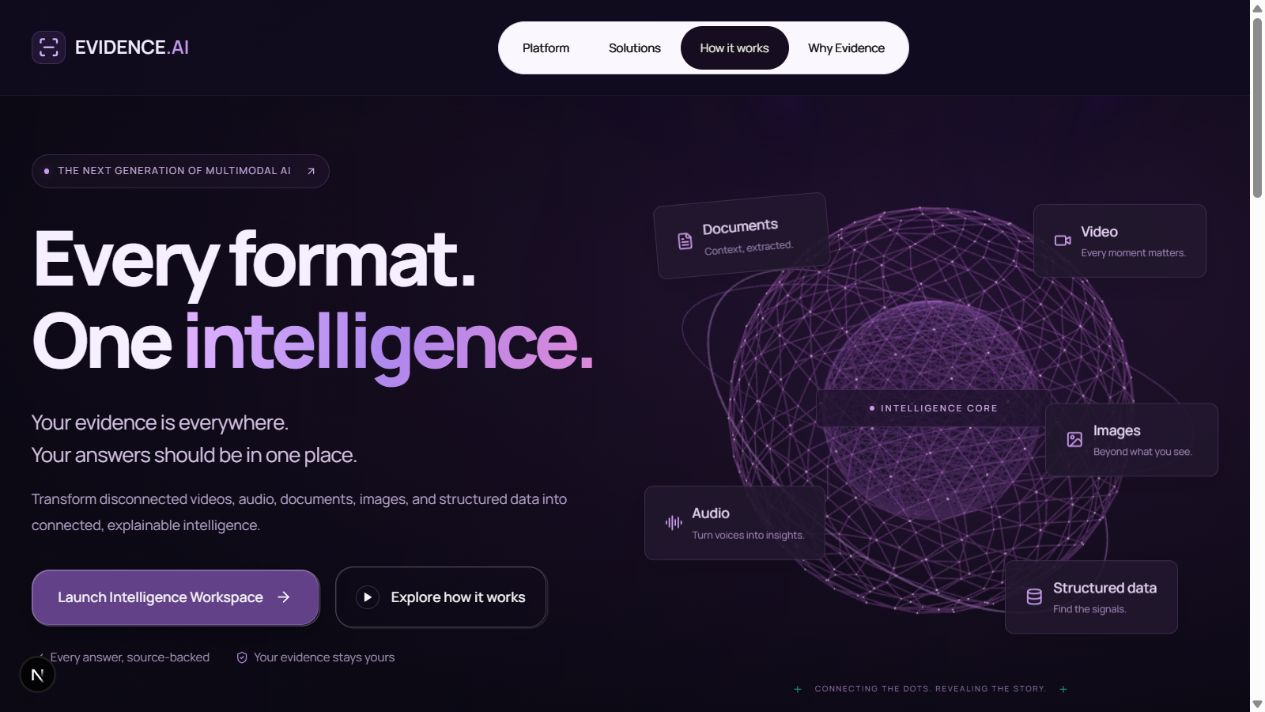
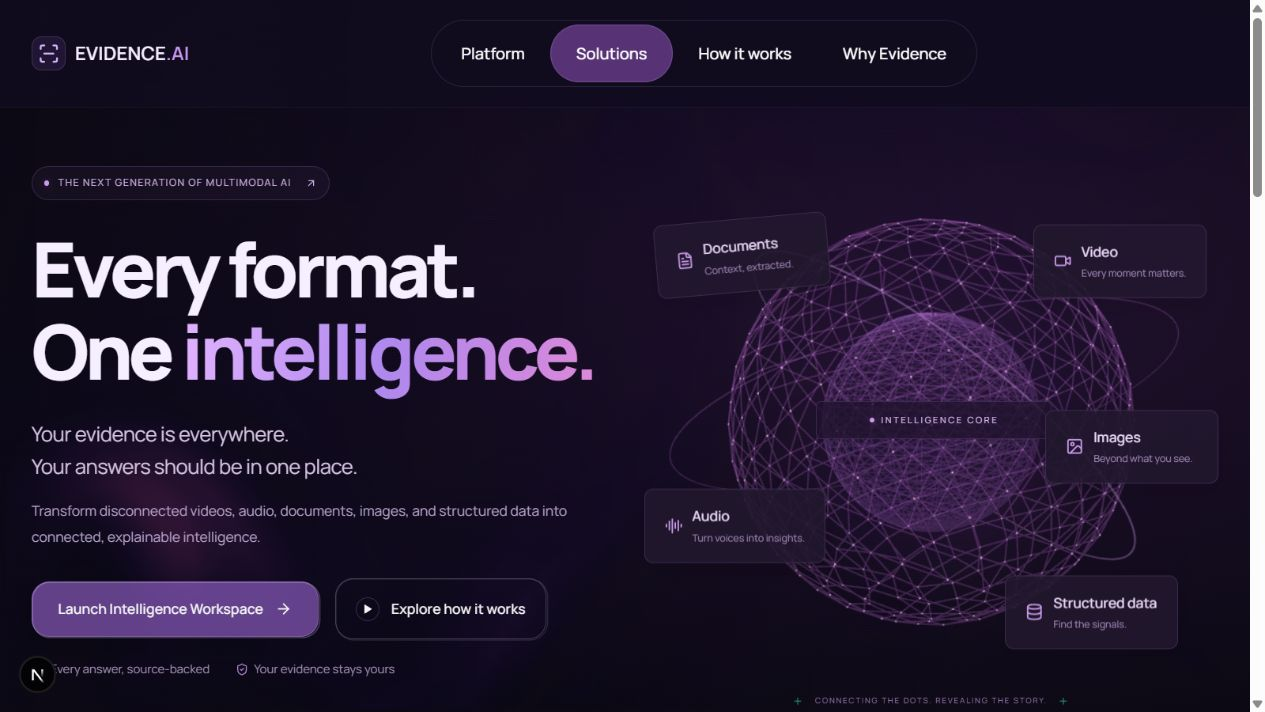
Enlarge landing navigation and match purple background

diff --git a/apps/web/components/ui/nav-header.tsx b/apps/web/components/ui/nav-header.tsx
@@ -7,14 +7,15 @@ export default function NavHeader({open=false,onNavigate}:{open?:boolean;onNavig
   const [position,setPosition]=useState<Position>({left:0,width:0,opacity:0});
   const reduced=useReducedMotion();
   return <nav aria-label="Main navigation" className={open?'nav-links open':'nav-links'}>
-    <ul className="nav-pill relative mx-auto flex w-fit rounded-full border-2 border-black bg-white p-1" onMouseLeave={()=>setPosition(previous=>({...previous,opacity:0}))} onBlur={event=>{if(!event.currentTarget.contains(event.relatedTarget))setPosition(previous=>({...previous,opacity:0}));}}>
+    <ul className="nav-pill relative mx-auto flex w-fit rounded-full border p-1" onMouseLeave={()=>setPosition(previous=>({...previous,opacity:0}))} onBlur={event=>{if(!event.currentTarget.contains(event.relatedTarget))setPosition(previous=>({...previous,opacity:0}));}}>
       {links.map(link=><Tab key={link.href} {...link} setPosition={setPosition} onNavigate={onNavigate}/>)}
-      <motion.li aria-hidden="true" animate={position} transition={reduced?{duration:0}:{type:'spring',stiffness:420,damping:35}} className="nav-pill-cursor absolute z-0 rounded-full bg-black"/>
+      <motion.li aria-hidden="true" animate={position} transition={reduced?{duration:0}:{type:'spring',stiffness:420,damping:35}} className="nav-pill-cursor absolute z-0 rounded-full"/>
     </ul>
   </nav>;
 }
 function Tab({label,href,setPosition,onNavigate}:{label:string;href:string;setPosition:(value:Position)=>void;onNavigate?:()=>void}){
   const ref=useRef<HTMLLIElement>(null);
   function highlight(){if(ref.current)setPosition({width:ref.current.getBoundingClientRect().width,left:ref.current.offsetLeft,opacity:1});}
-  return <li ref={ref} onMouseEnter={highlight} className="relative z-10 block cursor-pointer text-white mix-blend-difference"><a href={href} onFocus={highlight} onClick={onNavigate} className="block whitespace-nowrap rounded-full px-3 py-3 text-xs md:px-5">{label}</a></li>;
+  return <li ref={ref} onMouseEnter={highlight} className="relative z-10 block cursor-pointer text-white"><a href={href} onFocus={highlight} onClick={onNavigate} className="block whitespace-nowrap rounded-full px-3 py-3 text-xs md:px-5">{label}</a></li>;
 }
+

diff --git a/apps/web/app/landing-fluid.css b/apps/web/app/landing-fluid.css
@@ -56,9 +56,13 @@
 .landing .mobile-menu.specular-button{display:none}
 @media(max-width:900px){.landing .mobile-menu.specular-button{display:inline-flex}}
 .landing .nav-links{gap:0}
-.landing .nav-pill{list-style:none;margin:0;padding:4px;border:1px solid #ddd2ea;background:#faf7ff;isolation:isolate}
-.landing .nav-pill a{color:#fff;display:block;line-height:20px;padding:12px 20px;font-size:12px}
+.landing .nav-pill{list-style:none;margin:0;padding:4px;border:1px solid #a174c035;background:#100b1d;isolation:isolate}
+.landing .nav-pill a{color:#fff;display:block;line-height:24px;padding:17px 26px;font-size:16px;font-weight:500}
 .landing .nav-pill a:hover{color:#fff}
-.landing .nav-pill-cursor{top:4px;bottom:4px;pointer-events:none;list-style:none;background:#160e20}
-@media(max-width:900px){.landing .nav-links.open{background:#faf7ff;border-color:#ddd2ea}.landing .nav-pill{flex-wrap:wrap;justify-content:center;border:0;width:100%}.landing .nav-pill a{padding:12px 13px}.landing .nav-pill-cursor{display:none}.landing .nav-pill li{mix-blend-mode:normal}.landing .nav-pill a,.landing .nav-pill a:hover{color:#30243f}.landing .nav-pill a:hover,.landing .nav-pill a:focus-visible{background:#e9dff2}}
+.landing .nav-pill-cursor{top:4px;bottom:4px;pointer-events:none;list-style:none;background:#573274;box-shadow:inset 0 0 0 1px #b989df40}
+@media(max-width:900px){.landing .nav-links.open{background:#100b1d;border-color:#a174c035}.landing .nav-pill{flex-wrap:wrap;justify-content:center;border:0;width:100%}.landing .nav-pill a{padding:14px 16px;font-size:14px}.landing .nav-pill-cursor{display:none}.landing .nav-pill li{mix-blend-mode:normal}.landing .nav-pill a,.landing .nav-pill a:hover{color:#eee2fb}.landing .nav-pill a:hover,.landing .nav-pill a:focus-visible{background:#573274}}
 .landing .nav-pill{user-select:none}
+
+.landing .nav{min-height:108px}
+@media(min-width:901px) and (max-width:1100px){.landing .nav-pill a{padding:16px 18px;font-size:14px}}
+
